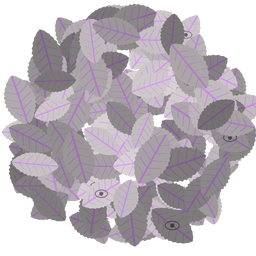
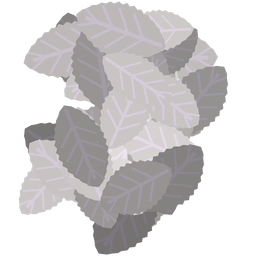
Witness tree at night: big leaves with bold feather veins that glow violet, near white at the centre, from a painted glow mask (Dave's picture, 25 Nov 2026)
Claude-Session: https://claude.ai/code/session_01KmdmcH7f5iEaBnTdbqvjht

diff --git a/assets/trees/make_tree_textures.py b/assets/trees/make_tree_textures.py
@@ -2,7 +2,7 @@
 
 Run: python3 assets/trees/make_tree_textures.py
 Writes leaf_broad.png, leaf_conifer.png, leaf_palm.png, bark.png, bark_birch.png
-twig_birch.png, leaf_oak.png, bark_smooth.png, leaf_willow.png, leaf_rowan.png, leaf_maple.png and leaf_witness.png next to this file.
+twig_birch.png, leaf_oak.png, bark_smooth.png, leaf_willow.png, leaf_rowan.png, leaf_maple.png, leaf_witness.png and its glow mask leaf_witness_veins.png next to this file.
 Foliage and bark are painted in light neutral values; the tree shader multiplies
 them by a per-tree color (autumn leaf color, species green, bark brown).
 Replace with real hand-painted art under the same names and sizes any time.
@@ -373,9 +373,13 @@ def twig_birch(name, size, seed):
     finish(rgb, alpha, name, size)
 
 
-def witness_leaf(rd, ad, cx, cy, length, width, angle, shade, rng):
-    # Witness tree (owner, 2026-10-18): an oval, finely toothed leaf with
-    # violet veins; now and then a faint eye-shaped mark.
+def witness_leaf(rd, ad, md, cx, cy, length, width, angle, shade, rng):
+    # Witness tree (owner, 2026-10-18; Dave's picture 25 Nov 2026, art/references/witness_tree_dave_2026-11-25.jpg):
+    # an oval, finely toothed leaf whose veins are barely seen by day and glow at night as a clear feather: one
+    # midrib and four pairs of side veins, bold enough to read as lines on each leaf. The albedo vein is only a
+    # shade paler than the blade; md (leaf_witness_veins.png) is the glow: 255 at the centre of a vein line,
+    # falling off to its edge, 0 on the blade. Each leaf blanks the mask under it, so a leaf in front hides the
+    # veins of the leaves behind.
     ca, sa = math.cos(angle), math.sin(angle)
     def at(x, y):
         return (cx + x * ca - y * sa, cy + x * sa + y * ca)
@@ -391,18 +395,20 @@ def witness_leaf(rd, ad, cx, cy, length, width, angle, shade, rng):
         pts.append(at(t * length, w))
     rd.polygon(pts, fill=grey(shade))
     ad.polygon(pts, fill=255)
-    vein = (int(min(255, shade * 1.05)), int(shade * 0.72), int(min(255, shade * 1.2)))
-    rd.line([at(0, 0), at(length, 0)], fill=vein, width=max(1, int(width * 0.06)))
-    for k in range(1, 6):
-        x = length * k / 6.5
-        w = math.sin(x / length * math.pi) ** 0.7 * width * 0.42
+    md.polygon(pts, fill=0)
+    vein = (int(min(255, shade * 1.06)), int(min(255, shade * 1.02)), int(min(255, shade * 1.08)))   # a shade paler: barely seen by day
+    lines = [(at(length * 0.04, 0), at(length * 0.9, 0), 0.075)]
+    for k in range(1, 5):
+        x = length * (0.1 + 0.17 * k)
+        w = math.sin(min(0.95, x / length + 0.12) * math.pi) ** 0.7 * width * 0.4
         for side in (-1, 1):
-            rd.line([at(x, 0), at(x + length * 0.12, side * w)], fill=vein, width=max(1, int(width * 0.03)))
-    if rng.random() < 0.06:
-        ex, ey = at(length * 0.5, 0)
-        r = width * 0.16
-        rd.ellipse([ex - r * 1.6, ey - r, ex + r * 1.6, ey + r], outline=grey(shade * 0.6), width=max(1, int(r * 0.25)))
-        rd.ellipse([ex - r * 0.45, ey - r * 0.45, ex + r * 0.45, ey + r * 0.45], fill=grey(shade * 0.5))
+            lines.append((at(x - length * 0.02, 0), at(x + length * 0.16, side * w), 0.05))
+    for a, b, frac in lines:
+        rd.line([a, b], fill=vein, width=max(1, int(width * frac)))
+    for a, b, frac in lines:   # the glow: a soft edge, then a bright core
+        md.line([a, b], fill=120, width=max(1, int(width * frac * 1.6)))
+    for a, b, frac in lines:
+        md.line([a, b], fill=255, width=max(1, int(width * frac * 0.8)))
 
 
 def witness(name, size, seed):
@@ -410,17 +416,19 @@ def witness(name, size, seed):
     w, h = size[0] * SS, size[1] * SS
     rgb = Image.new("RGB", (w, h), grey(150))
     alpha = Image.new("L", (w, h), 0)
-    rd, ad = ImageDraw.Draw(rgb), ImageDraw.Draw(alpha)
-    for n in range(170):
-        r = rng.random() ** 0.55 * 0.44
+    mask = Image.new("L", (w, h), 0)
+    rd, ad, md = ImageDraw.Draw(rgb), ImageDraw.Draw(alpha), ImageDraw.Draw(mask)
+    for n in range(48):   # 48 big leaves (170 small ones until 25 Nov 2026 read as a fine fern mesh at night)
+        r = rng.random() ** 0.55 * 0.4
         a = rng.uniform(0, math.tau)
         cx, cy = w * (0.5 + r * math.cos(a)), h * (0.5 + r * math.sin(a))
-        length = w * rng.uniform(0.15, 0.22)
-        width = length * rng.uniform(0.5, 0.62)
+        length = w * rng.uniform(0.28, 0.38)
+        width = length * rng.uniform(0.52, 0.62)
         angle = rng.uniform(0, math.tau)
         shade = rng.uniform(130, 235) * (1.0 - 0.3 * r)
-        witness_leaf(rd, ad, cx - math.cos(angle) * length / 2, cy - math.sin(angle) * length / 2, length, width, angle, shade, rng)
+        witness_leaf(rd, ad, md, cx - math.cos(angle) * length / 2, cy - math.sin(angle) * length / 2, length, width, angle, shade, rng)
     finish(rgb, alpha, name, size)
+    mask.resize(size, Image.LANCZOS).save(os.path.join(HERE, name.replace(".png", "_veins.png")))
 
 
 if __name__ == "__main__":

diff --git a/tools/check_dave_rules.py b/tools/check_dave_rules.py
@@ -132,9 +132,11 @@ def witness_glow():
     src = (ROOT / "src/flora/flora_view.gd").read_text(encoding="utf-8")
     foliage = src[src.index("const FOLIAGE_SHADER"):src.index("const BARK_SHADER")]
     emission = re.findall(r"^\s*EMISSION = (.+);", foliage, re.M)
-    check("R-FLORA-WITNESS-GLOW", emission == ["glow * glow_amount * vein_mask"], f"the leaf glow is masked to the veins (EMISSION = {emission})")
-    start = float(re.search(r"const float VEIN_FROM = ([0-9.]+);", foliage).group(1))
-    check("R-FLORA-WITNESS-GLOW", start > 0.0, f"the grey leaf blade (vein measure 0) never glows (VEIN_FROM {start})")
+    check("R-FLORA-WITNESS-GLOW", emission == ["(glow * vein_mask + glow_core * smoothstep(0.6, 1.0, vein_mask)) * glow_energy * glow_amount"],
+          f"the leaf glow is masked to the veins (EMISSION = {emission})")
+    check("R-FLORA-WITNESS-GLOW", re.search(r"^\s*float vein_mask = texture\(veins, UV\)\.r;", foliage, re.M) and "uniform sampler2D veins : hint_default_black" in foliage,
+          "the mask is the painted vein texture, black (no glow) where none is set")
+    check("R-FLORA-WITNESS-GLOW", (ROOT / "assets/trees/leaf_witness_veins.png").is_file(), "the witness leaf's vein mask is there")
 
 
 def ruling_lines():

diff --git a/BugsList_Current.md b/BugsList_Current.md
@@ -1668,7 +1668,7 @@ Now the grid's bottom left point sits at the crosshair (on the bed or metre cell
 
 ## 151. The witness tree's whole canopy glows violet at night
 
-**Found by:** Dave, his own play, 25 Nov 2026: "I have noticed these trees at night and its not just the veins its the entire canopy is glowing violet. which is not per the design." (R-FLORA-WITNESS-GLOW.) **Status: Implemented - awaiting player verification.** Two causes: the leaf shader lit every leaf at 60 to 100% of the glow, not only the veins, and each grown witness tree hung a violet light in its crown (45% of its height, reaching 60% of it) that lit the whole canopy from inside. Now only the violet vein lines in the leaf texture glow (flora_view.gd FOLIAGE_SHADER vein_mask), and the tree sends no light (data/tables/flora.json). The everember was checked: its glow is already only in its bark veins, and its light stays at 2 m to light the ground. Guarded by `tools/check_dave_rules.py`. Not yet played; needs a night picture near and far.
+**Found by:** Dave, his own play, 25 Nov 2026: "I have noticed these trees at night and its not just the veins its the entire canopy is glowing violet. which is not per the design." (R-FLORA-WITNESS-GLOW.) **Status: Implemented - awaiting player verification.** Two causes: the leaf shader lit every leaf at 60 to 100% of the glow, not only the veins, and each grown witness tree hung a violet light in its crown (45% of its height, reaching 60% of it) that lit the whole canopy from inside. Now only the violet vein lines in the leaf texture glow (flora_view.gd FOLIAGE_SHADER vein_mask), and the tree sends no light (data/tables/flora.json). The everember was checked: its glow is already only in its bark veins, and its light stays at 2 m to light the ground. Guarded by `tools/check_dave_rules.py`. Merged in PR #1929; Lane A's night picture then showed the crown as a pale lavender fern mesh, not Dave's picture (`art/references/witness_tree_dave_2026-11-25.jpg`, 25 Nov 2026: "this is how I was envisioning the tree"). The follow-up repaints the leaf card with 48 big leaves instead of 170 small ones, each with one midrib and four pairs of bold side veins; the veins are barely seen by day, and a separate glow mask (`assets/trees/leaf_witness_veins.png`) makes only those lines glow violet at night, near white at their centres, on dark leaves. Not yet played; needs a night picture near and far.
 
 ## Rewrite interpretation
 
